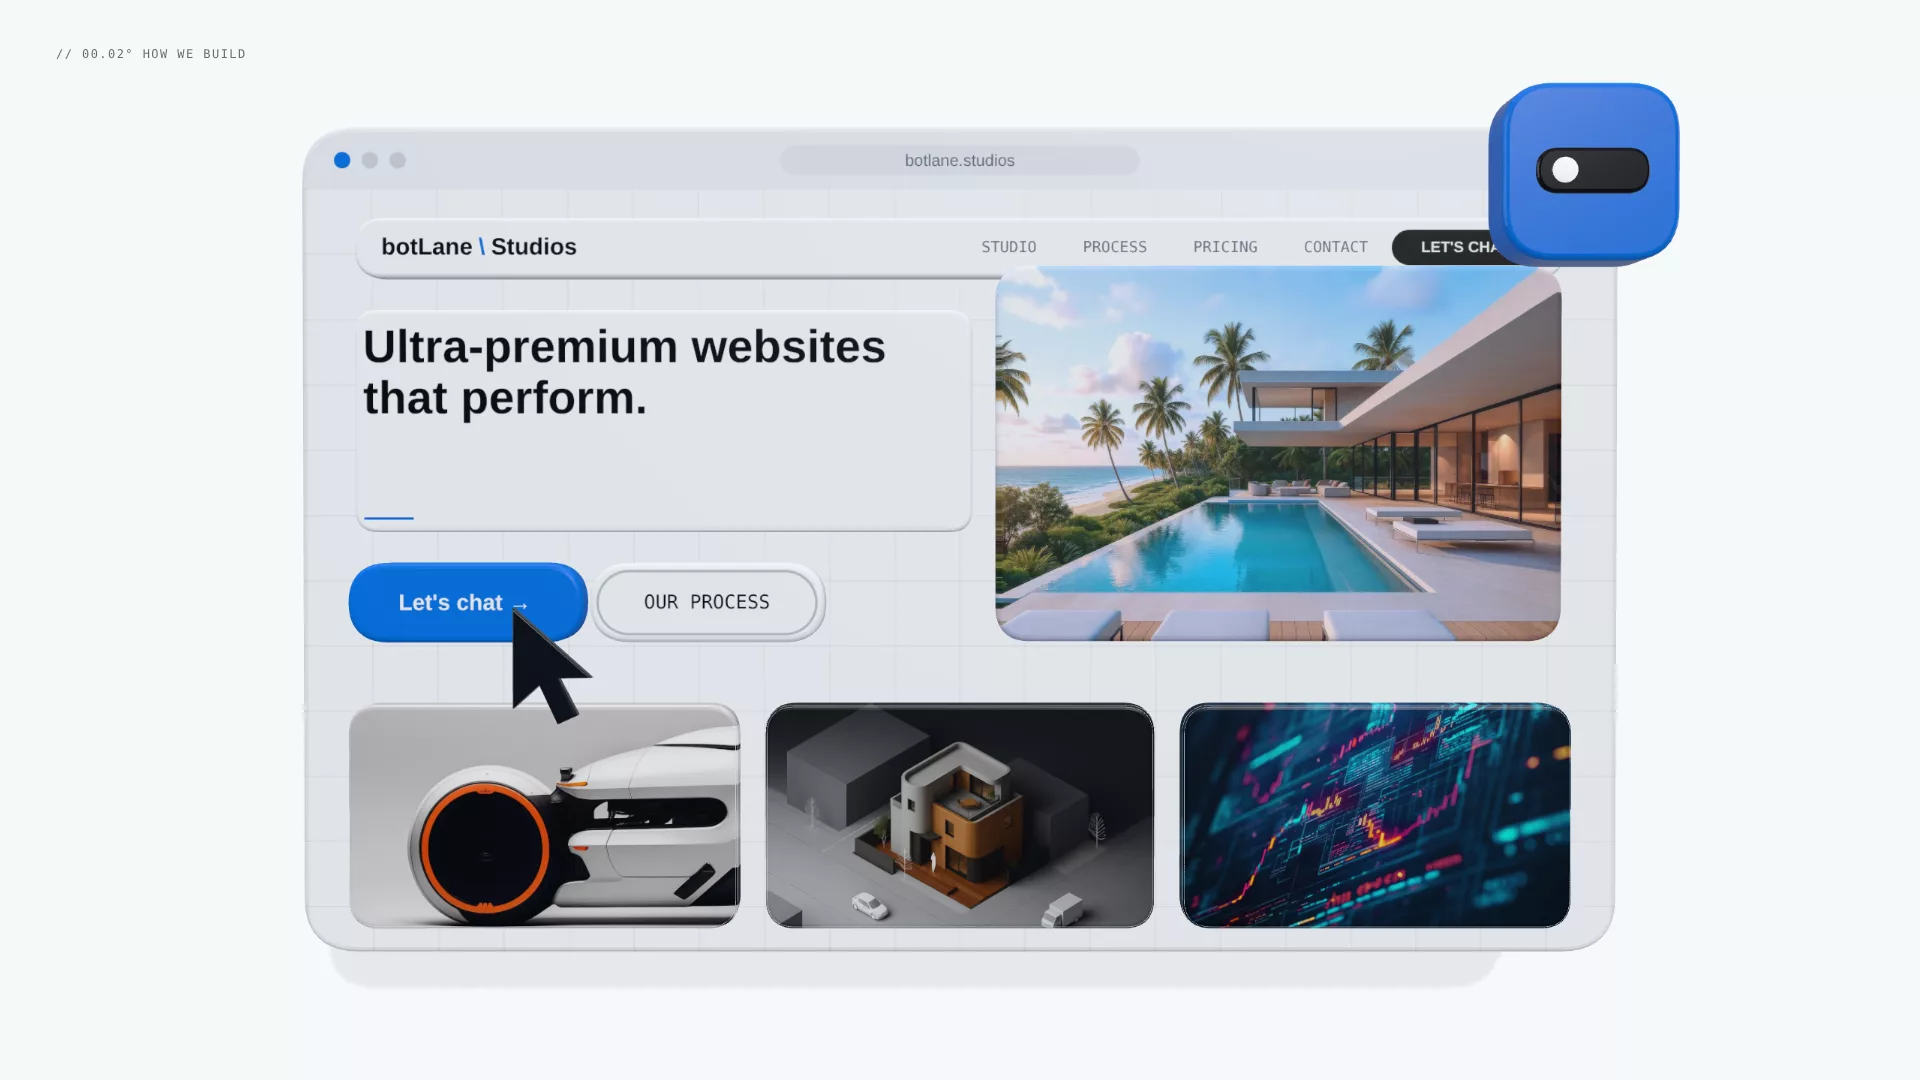
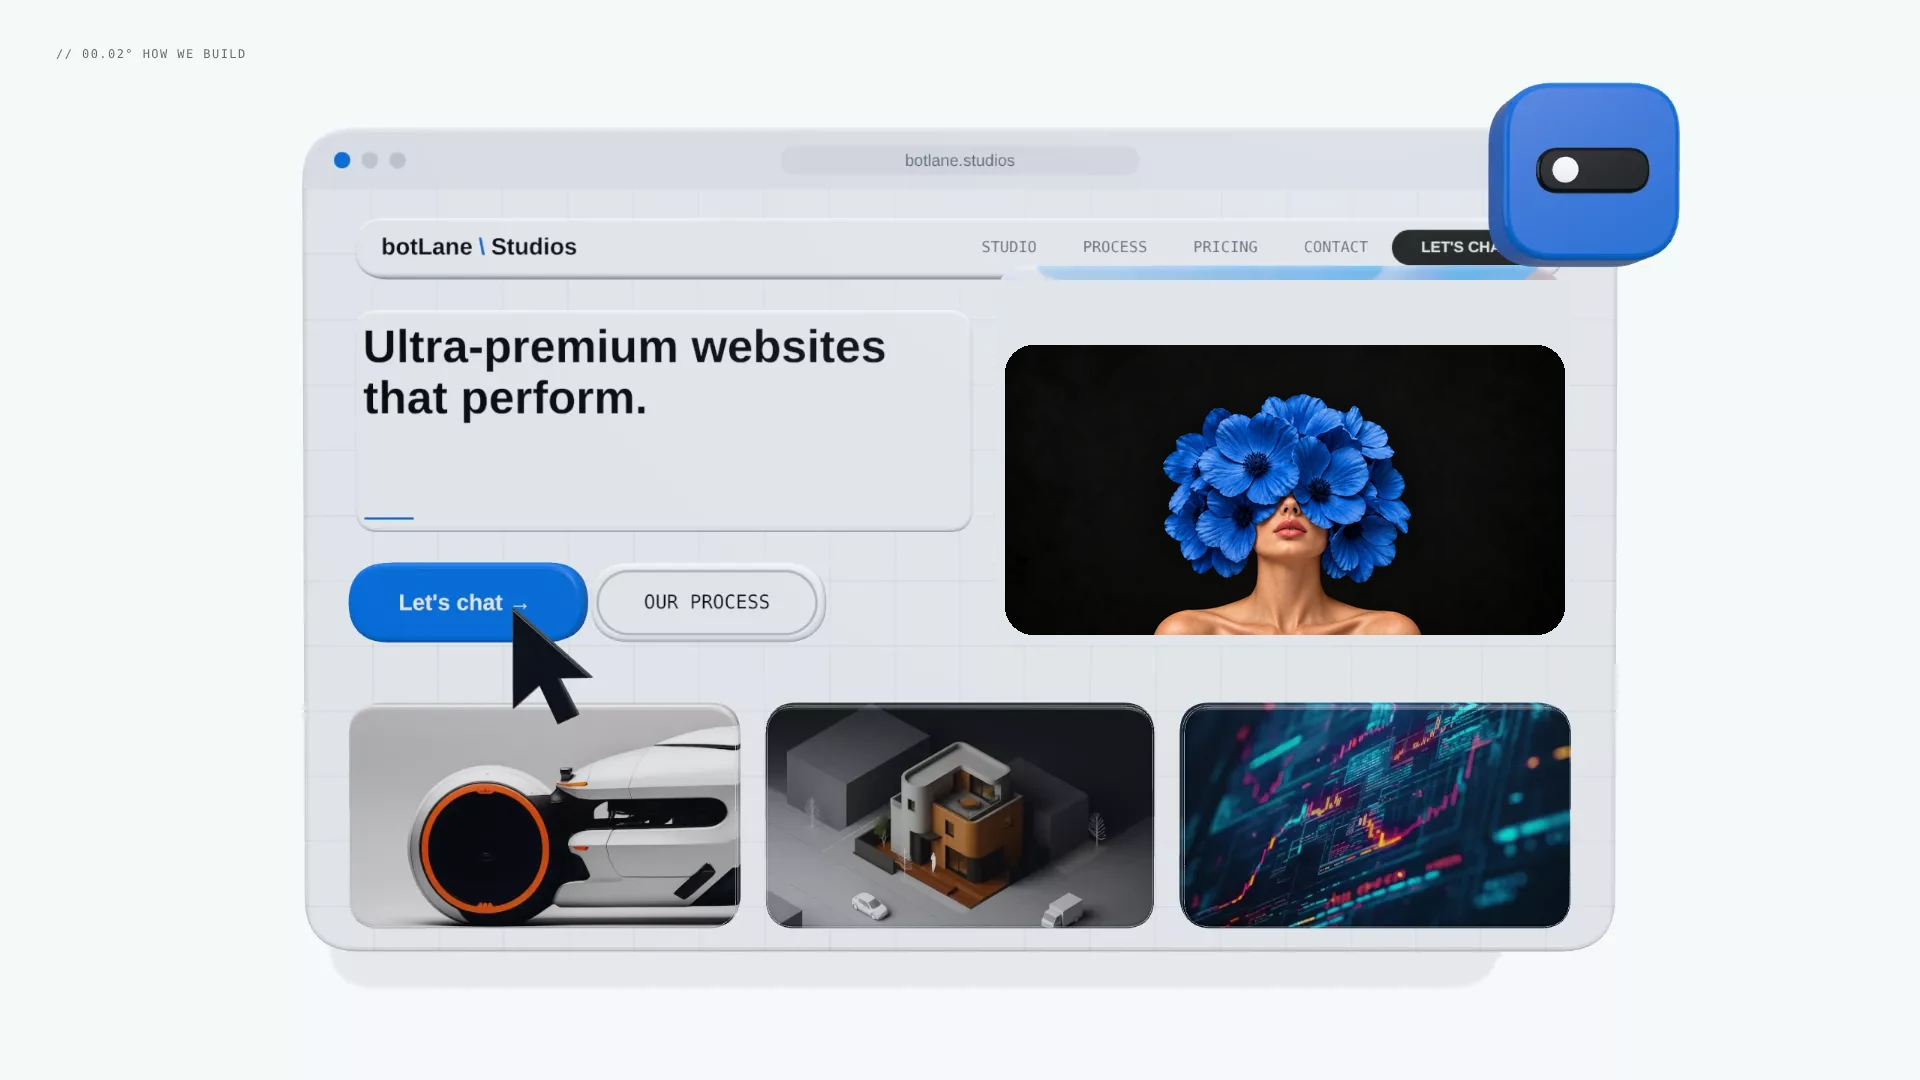
Fix hero plate clearance and swap swimming-pool inset
Clear Hero stage/CTAs of --nav-h (media still bleeds under the fixed
nav). In ProcessFilm, lower/shrink the right-side hero brick so it no
longer overlaps the mock nav, and replace process/hero.jpg with the
existing /hero/background.webp asset (still.webp fallback updated).

Changed region(s): [[0.5, 0.2444, 0.8125, 0.6111]]

diff --git a/src/components/process/scene.js b/src/components/process/scene.js
@@ -380,7 +380,7 @@ export function mountProcessScene({ track: wrapEl, mount, flash, images, onCta }
         { id: "window", w: 16, h: 10, d: 0.32, r: 0.6, tex: windowTex.tex, final: [0, 0, 0], layer: -1 },
         { id: "nav", w: 14.6, h: 0.63, d: 0.14, r: 0.3, tex: navTex.tex, final: [0, 3.55, 0.34], layer: 0 },
         { id: "headline", w: 7.4, h: 2.6, d: 0.14, r: 0.22, tex: headTex.tex, final: [-3.6, 1.45, 0.34], layer: 1 },
-        { id: "hero", w: 6.7, h: 4.4, d: 0.22, r: 0.34, img: 0, final: [3.85, 1.05, 0.42], layer: 1 },
+        { id: "hero", w: 6.7, h: 4.05, d: 0.22, r: 0.34, img: 0, final: [3.85, 0.93, 0.42], layer: 1 },
         { id: "cta", w: 2.7, h: 0.82, d: 0.24, r: 0.41, tex: ctaTex.tex, final: [-5.95, -0.75, 0.5], layer: 2, accentClay: true },
         { id: "ghost", w: 2.7, h: 0.82, d: 0.2, r: 0.41, tex: ghostTex.tex, final: [-3.05, -0.75, 0.45], layer: 2 },
         { id: "card1", w: 4.6, h: 2.6, d: 0.18, r: 0.3, img: 1, final: [-5.05, -3.35, 0.4], layer: 0 },

diff --git a/src/components/Hero.module.css b/src/components/Hero.module.css
@@ -7,8 +7,8 @@
   display: flex;
   flex-direction: column;
   justify-content: center;
-  min-height: 100svh;
-  margin-top: calc(-1 * var(--nav-h));
+  /* Content clears the fixed nav; only .media bleeds under it. */
+  min-height: calc(100svh - var(--nav-h));
   padding-block: calc(14 * var(--u));
   overflow: hidden;
   border-bottom: 1px solid var(--rule);
@@ -17,7 +17,8 @@
 
 .media {
   position: absolute;
-  inset: 0;
+  /* Full-bleed under the transparent nav, without pulling stage/CTAs up. */
+  inset: calc(-1 * var(--nav-h)) 0 0;
   z-index: 0;
   pointer-events: none;
   overflow: hidden;

diff --git a/src/components/ProcessFilm.tsx b/src/components/ProcessFilm.tsx
@@ -6,7 +6,7 @@ import { ChatModal } from "./process/ChatModal";
 import styles from "./ProcessFilm.module.css";
 
 const STEPS = ["Discovery", "Strategy", "Design & Build", "Launch & Grow"];
-const IMAGES = ["/process/hero.jpg", "/process/card-1.jpg", "/process/card-2.jpg", "/process/card-3.jpg"];
+const IMAGES = ["/hero/background.webp", "/process/card-1.jpg", "/process/card-2.jpg", "/process/card-3.jpg"];
 
 /** The section under the hero: a website assembling itself, drawn live in 3D
  *  and driven by scroll (scrolling back plays it backwards). The canvas is

diff --git a/src/components/Hero.tsx b/src/components/Hero.tsx
@@ -25,8 +25,9 @@ const HEADLINE =
 
 /**
  * Honest hero aligned to botlane.tech / bot-studio:
- * full-bleed media, soft scrims on headline + lockup, side ticks,
- * mono message lines, Sheridan time, craft/chat CTAs, showreel.
+ * full-bleed media (bleeds under nav only; stage/CTAs clear of --nav-h),
+ * soft scrims on headline + lockup, side ticks, mono message lines,
+ * Sheridan time, craft/chat CTAs, showreel plate on the right.
  * Keeps botstudio rotating images, particle dots, and breathe.
  */
 export function Hero() {
